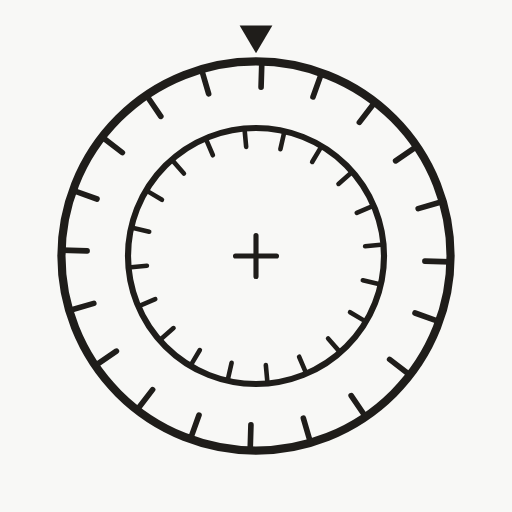
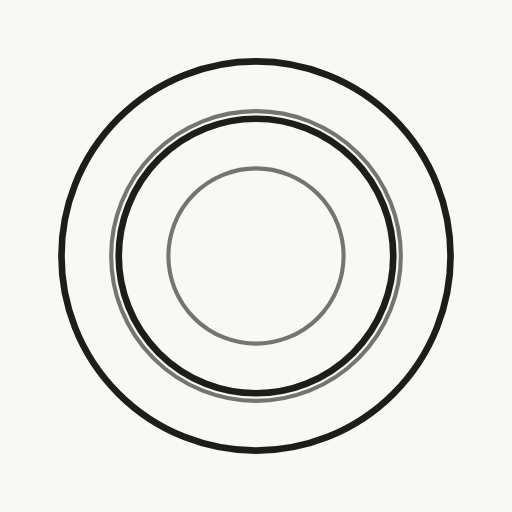
ORNA: leeres Rad als Android-Symbol, Startbild beginnt mit denselben Ringen
- Android-Symbole (192, 512, maskierbar) zeigen nur die vier Ringlinien in den Verhältnissen des Rads: Chrome baut daraus den Systemstartbildschirm, danach füllen sich die Ringe
- iPhone (apple-touch-icon) und Browser-Tab behalten das volle Rad
- Startbild: Ringe stehen von Anfang an statt sich zu zeichnen; Zeichen setzen etwas früher ein
- Service-Worker-Liste nachgeführt

Claude-Session: https://claude.ai/code/session_01XazkuGp4mmKH7yg2CDnVdw

diff --git a/portfolio/nebeneinander-nacheinander/rad.css b/portfolio/nebeneinander-nacheinander/rad.css
@@ -480,14 +480,9 @@
 .orna-wheel .sym-over { stroke-width: 0.9; }
 .orna-wheel .sym-dot { fill: currentColor; stroke: none; }
 
-/* Ringe zeichnen sich */
-.orna-ring {
-  stroke-width: 1.4;
-  stroke-dasharray: 1;
-  stroke-dashoffset: 1;
-  transition: stroke-dashoffset 0.9s cubic-bezier(0.4, 0, 0.2, 1);
-}
-.orna-ring--thin { stroke-width: 0.8; opacity: 0.6; transition-delay: 0.15s; }
+/* Ringe stehen von Anfang an, genau wie auf dem App-Symbol (Android-Startbildschirm) */
+.orna-ring { stroke-width: 1.4; }
+.orna-ring--thin { stroke-width: 0.8; opacity: 0.6; }
 
 /* Zeichen kommen aus der Streuung an ihren Platz */
 .orna-sym {
@@ -496,7 +491,7 @@
   opacity: 0;
   transform: translate(var(--dx), var(--dy)) rotate(var(--rot)) scale(0.6);
   transition: transform 0.9s cubic-bezier(0.2, 0.7, 0.2, 1), opacity 0.5s ease;
-  transition-delay: calc(0.35s + var(--i) * 0.03s);
+  transition-delay: calc(0.15s + var(--i) * 0.03s);
 }
 
 .orna-wheel .orna-mark { fill: currentColor; stroke: none; opacity: 0; transition: opacity 0.4s ease 2.1s; }
@@ -512,7 +507,6 @@
   transition: opacity 0.6s ease 2.2s;
 }
 
-.orna-intro.is-assembling .orna-ring { stroke-dashoffset: 0; }
 .orna-intro.is-assembling .orna-sym { opacity: 1; transform: none; }
 .orna-intro.is-assembling .orna-wheel .orna-mark,
 .orna-intro.is-assembling .orna-wheel .orna-cross,

diff --git a/portfolio/nebeneinander-nacheinander/index.html b/portfolio/nebeneinander-nacheinander/index.html
@@ -32,7 +32,7 @@
   <meta name="apple-mobile-web-app-title" content="ORNA">
   <meta name="apple-mobile-web-app-status-bar-style" content="default">
   <link rel="stylesheet" href="../../styles.css?v=19">
-  <link rel="stylesheet" href="rad.css?v=19">
+  <link rel="stylesheet" href="rad.css?v=20">
   <!-- ORNA-Startbild: vor dem ersten Bild entscheiden, ob es kommt, damit die Seite nicht kurz aufblitzt -->
   <script>
     (function () {
@@ -48,7 +48,7 @@
       } catch (e) {}
     })();
   </script>
-  <link rel="modulepreload" href="js/intro.js?v=2">
+  <link rel="modulepreload" href="js/intro.js?v=3">
   <link rel="modulepreload" href="js/symbols.js?v=2">
 </head>
 <body>
@@ -127,7 +127,7 @@
   <script src="../../icons.js?v=13" defer></script>
   <script type="module" src="js/wheel.js?v=11"></script>
   <script type="module" src="js/ticker.js?v=5"></script>
-  <script type="module" src="js/intro.js?v=2"></script>
+  <script type="module" src="js/intro.js?v=3"></script>
   <script type="module" src="js/pwa.js?v=2"></script>
   <!-- Besuchsstatistik ohne Cookies: https://ornament-cloud.goatcounter.com -->
   <script data-goatcounter="https://ornament-cloud.goatcounter.com/count" async src="../../vendor/goatcounter/count.js"></script>

diff --git a/portfolio/nebeneinander-nacheinander/js/intro.js b/portfolio/nebeneinander-nacheinander/js/intro.js
@@ -1,6 +1,7 @@
 // ORNA – Startbild der installierten App: Das Rad setzt sich zusammen.
-// Zuerst zeichnen sich die Ringe, dann finden die 40 Zeichen einzeln ihren Platz,
-// zuletzt erscheinen Achsenmarke und Name. Danach gibt das Bild das Rad frei.
+// Es beginnt mit den leeren Ringen – demselben Bild wie das App-Symbol, aus dem Android den
+// Systemstartbildschirm baut. Dann finden die 40 Zeichen einzeln ihren Platz, zuletzt erscheinen
+// Achsenmarke und Name. Danach gibt das Bild das Rad frei.
 //
 // Nur als App (Startbildschirm) und einmal pro Sitzung; zum Ansehen im Browser: ?intro.
 // Bei reduzierter Bewegung entfällt es ganz. Antippen oder eine Taste überspringt es.
@@ -21,7 +22,7 @@ function run() {
   const C = 500, SLOTS = 20, STEP = 18;
   const OUTER = { edge: 462, inner: 344, sym: 403, half: 42 };
   const INNER = { edge: 326, inner: 208, sym: 267, half: 37 };
-  const circle = (r, cls) => `<circle class="${cls}" cx="${C}" cy="${C}" r="${r}" pathLength="1"/>`;
+  const circle = (r, cls) => `<circle class="${cls}" cx="${C}" cy="${C}" r="${r}"/>`;
 
   // kleine, feste Streuung je Zeichen: woher es kommt und wie es gedreht ist (im Rahmen seines Platzes)
   let seed = 7;

diff --git a/portfolio/nebeneinander-nacheinander/sw.js b/portfolio/nebeneinander-nacheinander/sw.js
@@ -5,7 +5,7 @@
 //
 // Die Liste unten schreibt tools/build-app.ts – nicht von Hand pflegen.
 // <!-- APP:START -->
-const VERSION = "e753efe8eccd";
+const VERSION = "8b2e821b752d";
 const PRECACHE = [
   "../../icons.js?v=13",
   "../../styles.css?v=19",
@@ -21,7 +21,7 @@ const PRECACHE = [
   "js/data/artists.js?v=v6",
   "js/data/constellations.js?v=v6",
   "js/data/theorists.js?v=v6",
-  "js/intro.js?v=2",
+  "js/intro.js?v=3",
   "js/lib/geometry.js",
   "js/lib/random.js",
   "js/lib/spin.js",
@@ -30,7 +30,7 @@ const PRECACHE = [
   "js/symbols.js?v=2",
   "js/ticker.js?v=5",
   "js/wheel.js?v=11",
-  "rad.css?v=19"
+  "rad.css?v=20"
 ];
 // <!-- APP:END -->
 

diff --git a/README.md b/README.md
@@ -24,7 +24,8 @@ Alles liegt auf dem eigenen Server – es werden keine Dateien von claude.ai, CD
   zurückholen (`git checkout <commit>^ -- …`), Eintrag in `sitemap.xml` ergänzen
 - `sitemap.xml` – alle Seiten (ohne die Weiterleitung `portfolio/rad-von-zeit-und-raum/`); neue Seiten hier eintragen, ein Test prüft das
 - Installierbare Web-App (PWA) für Rad und Feld: `portfolio/nebeneinander-nacheinander/app.webmanifest`, `sw.js` (offline),
-  `js/pwa.js` (Anmeldung), Symbole in `app/` (erzeugt mit `NODE_PATH=$(npm root -g) node tools/app-icons.mjs`).
+  `js/pwa.js` (Anmeldung), Symbole in `app/` (erzeugt mit `NODE_PATH=$(npm root -g) node tools/app-icons.mjs`:
+  Android leeres Rad = erstes Bild des Startbilds, damit der Systemstartbildschirm nahtlos übergeht; iPhone volles Rad).
   Nach jeder Änderung an Rad- oder Feldseite: `node --experimental-strip-types tools/build-app.ts` (neue Version, Dateiliste;
   läuft auch mit dem Sync, ein Test meldet, wenn es vergessen ging). Als App sind Menü und Portfolio-Link ausgeblendet.
   App-Name ORNA; beim Start der installierten App setzt sich das Rad zusammen (`js/intro.js`, einmal pro Sitzung,
